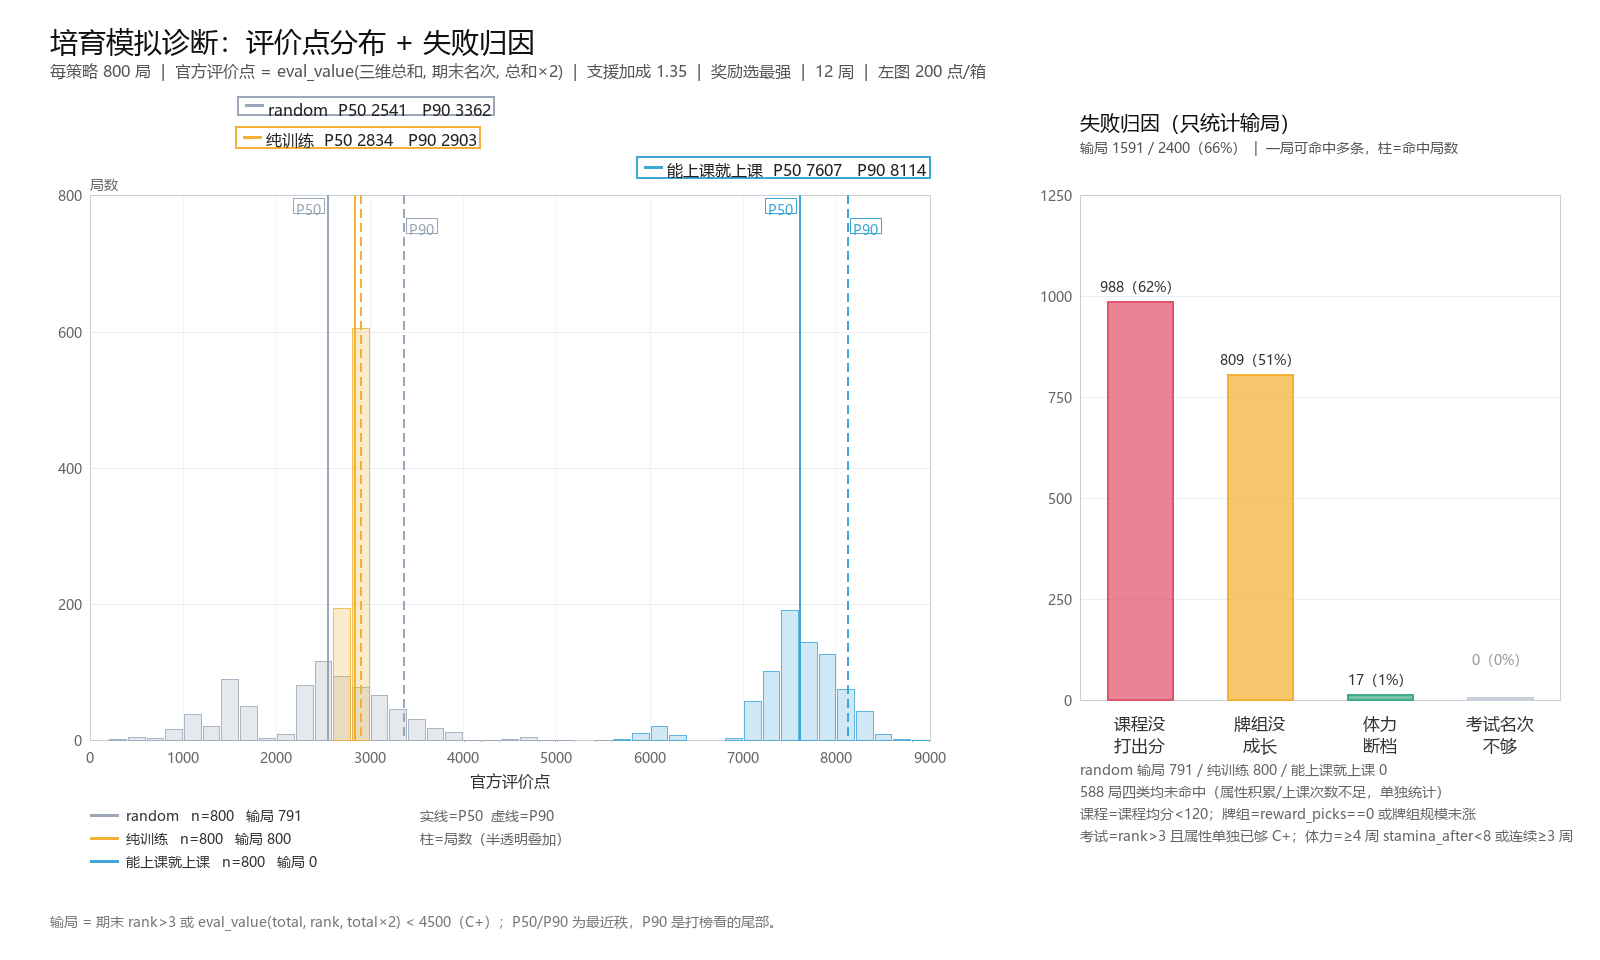
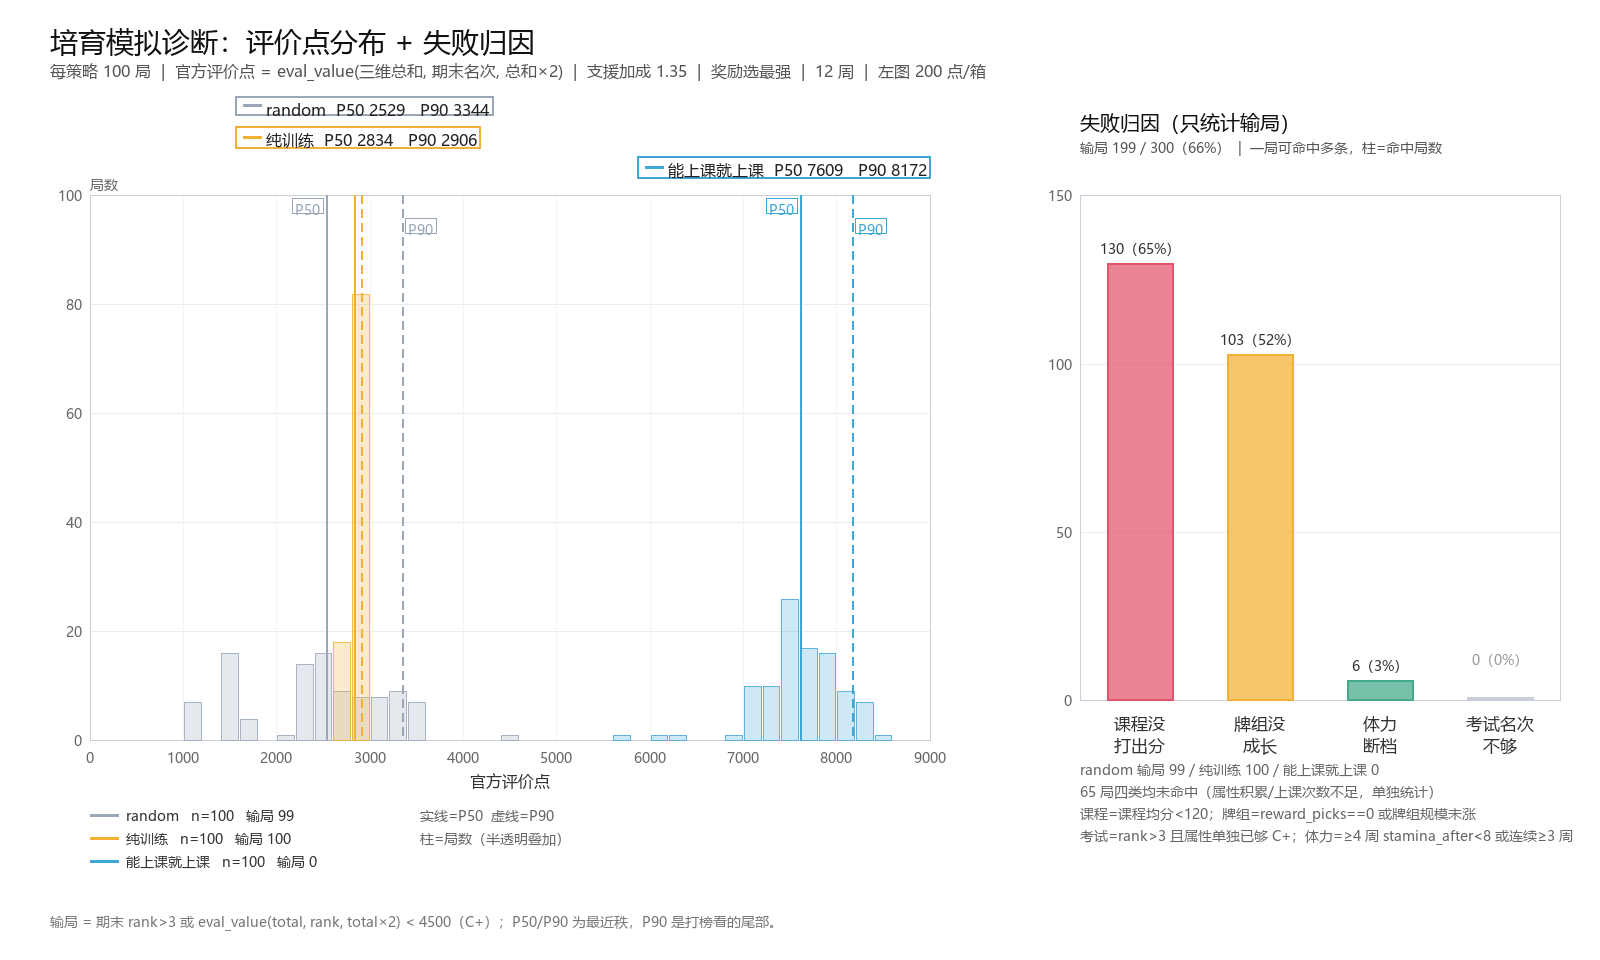
fix(sim): sim_diag 的 MODELED_EFFECTS 补到9类，与 sim_produce 口径一致

diff --git a/scripts/sim_diag.py b/scripts/sim_diag.py
@@ -55,6 +55,8 @@ MODELED_EFFECTS = {
     "ExamCardDraw",
     "ExamReview",
     "ExamLessonDependExamReview",
+    "ExamFullPowerPoint",
+    "ExamPreservation",
 }
 STARTER_NAMES = (
     "好调", "集中", "魅力的基础", "魅力的基础+", "表现的基础", "表情的基础",
